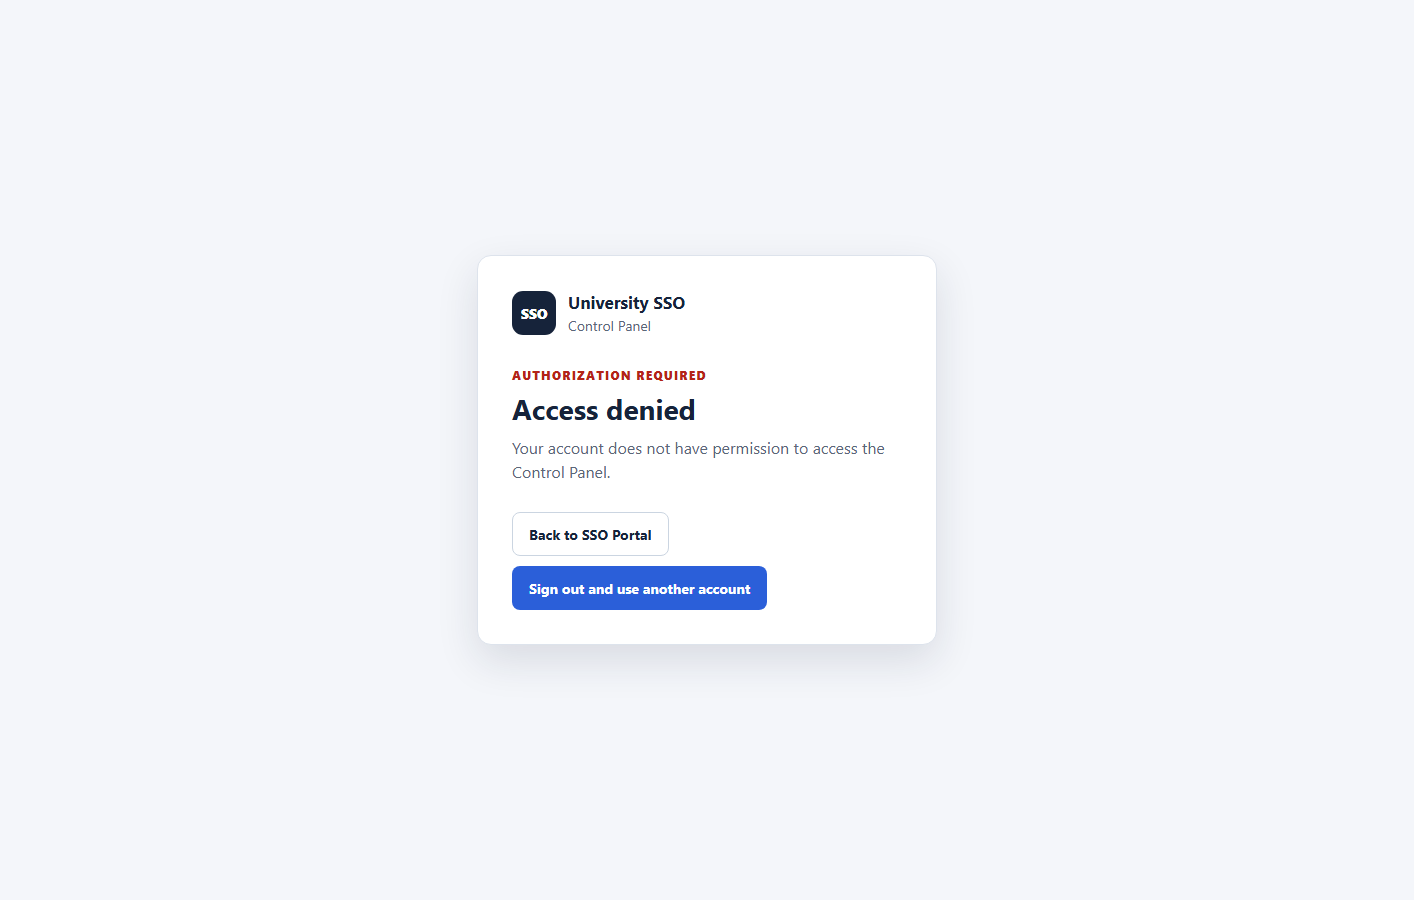
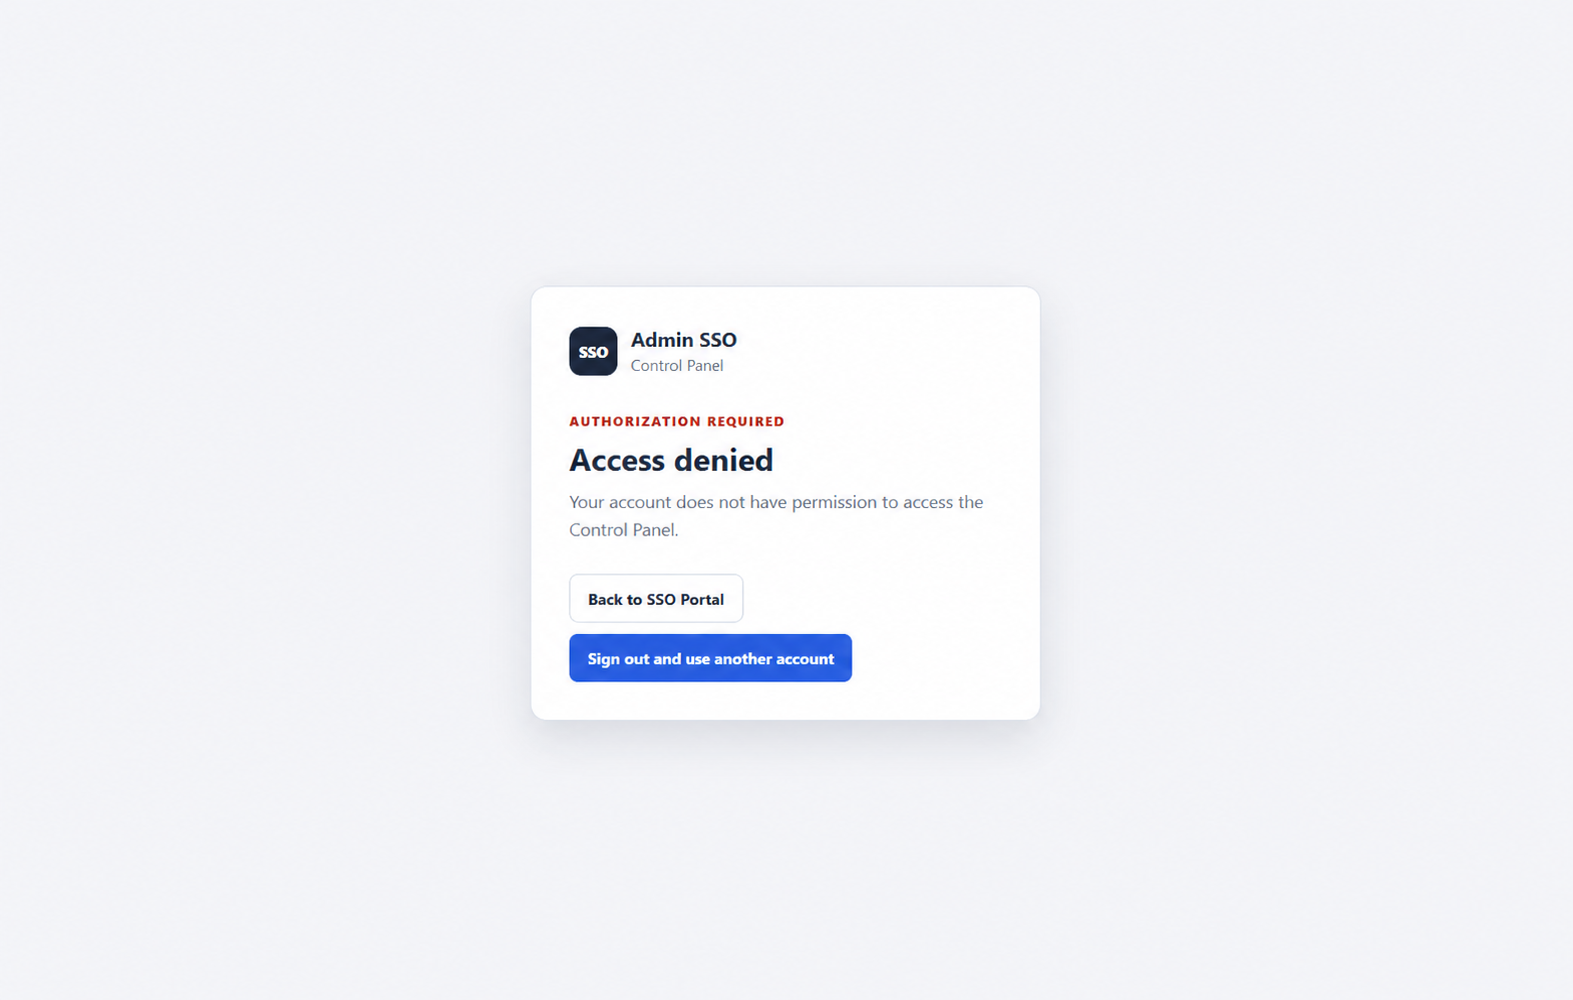
fix ui and readme

diff --git a/apps/control-panel/src/admin-ui.ts b/apps/control-panel/src/admin-ui.ts
@@ -15,7 +15,7 @@ export function renderAdminUi(): string {
 </head>
 <body>
 <div class="layout">
-  <aside class="sidebar"><div class="brand">University SSO<span>Control Panel</span></div><nav class="nav"><button class="active" data-section="dashboard">Dashboard</button><button data-section="users">Users</button><button data-section="groups">Groups</button><button data-section="applications">Applications</button></nav></aside>
+  <aside class="sidebar"><div class="brand">Admin SSO<span>Control Panel</span></div><nav class="nav"><button class="active" data-section="dashboard">Dashboard</button><button data-section="users">Users</button><button data-section="groups">Groups</button><button data-section="applications">Applications</button></nav></aside>
   <main class="main">
     <header class="topbar"><h1 id="page-title">Dashboard</h1><span class="muted">Identity and access administration</span></header>
     <div class="content" id="content">

diff --git a/apps/control-panel/src/control-panel-access.ui.ts b/apps/control-panel/src/control-panel-access.ui.ts
@@ -44,7 +44,7 @@ document.getElementById('switch-account').addEventListener('click', () => {
 </head>
 <body>
   <main class="card">
-    <div class="brand"><div class="logo">SSO</div><div><strong>University SSO</strong><span>Control Panel</span></div></div>
+    <div class="brand"><div class="logo">SSO</div><div><strong>Admin SSO</strong><span>Control Panel</span></div></div>
     <div class="eyebrow">${denied ? 'Authorization required' : 'Protected administration'}</div>
     <h1>${title}</h1>
     <p>${message}</p>

diff --git a/apps/auth-server/src/auth/totp.service.ts b/apps/auth-server/src/auth/totp.service.ts
@@ -20,7 +20,7 @@ export class TotpService {
   }
 
   createProvisioningUri(email: string, secret: string): string {
-    const issuer = 'University SSO';
+    const issuer = 'Admin SSO';
     const label = encodeURIComponent(`${issuer}:${email}`);
     return `otpauth://totp/${label}?secret=${secret}&issuer=${encodeURIComponent(issuer)}&algorithm=SHA1&digits=6&period=30`;
   }
